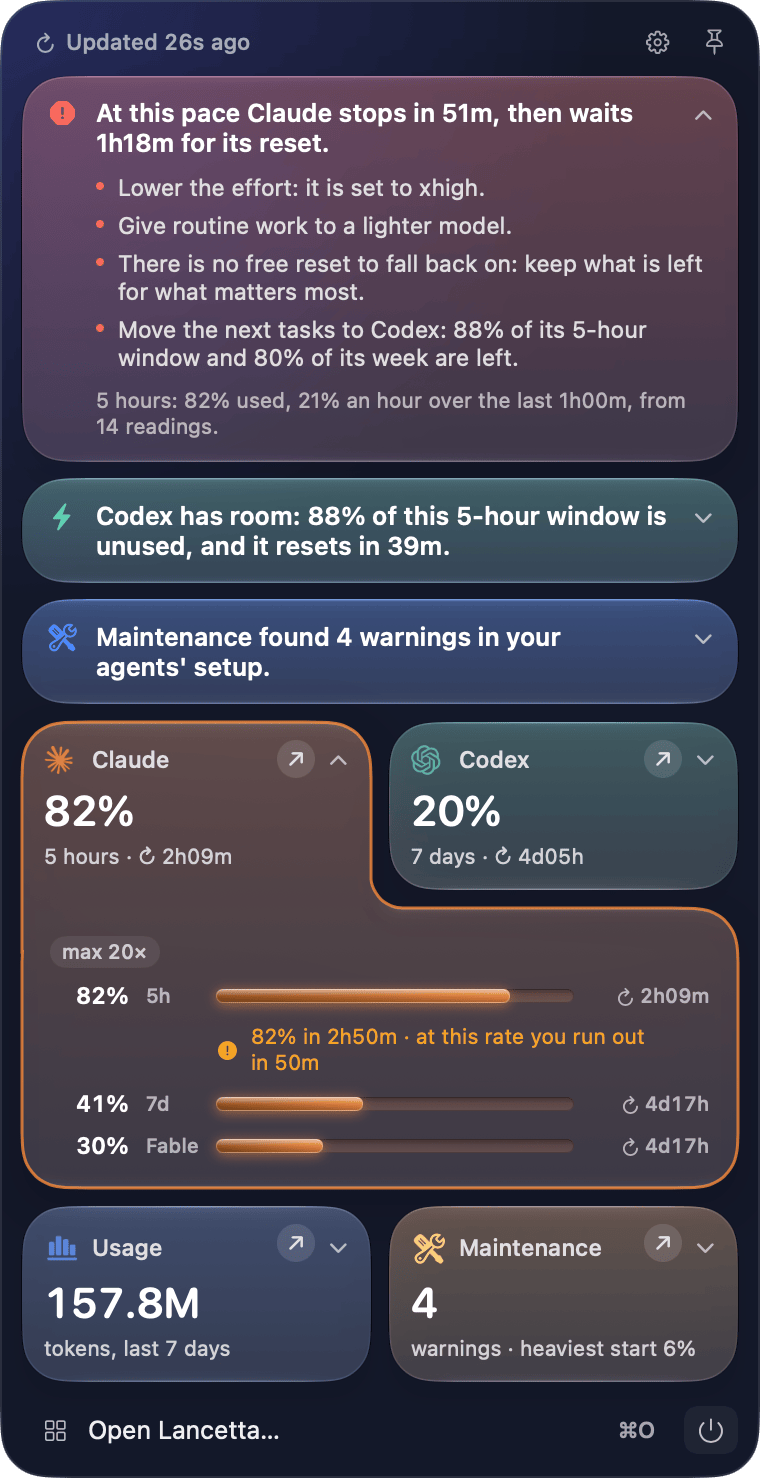
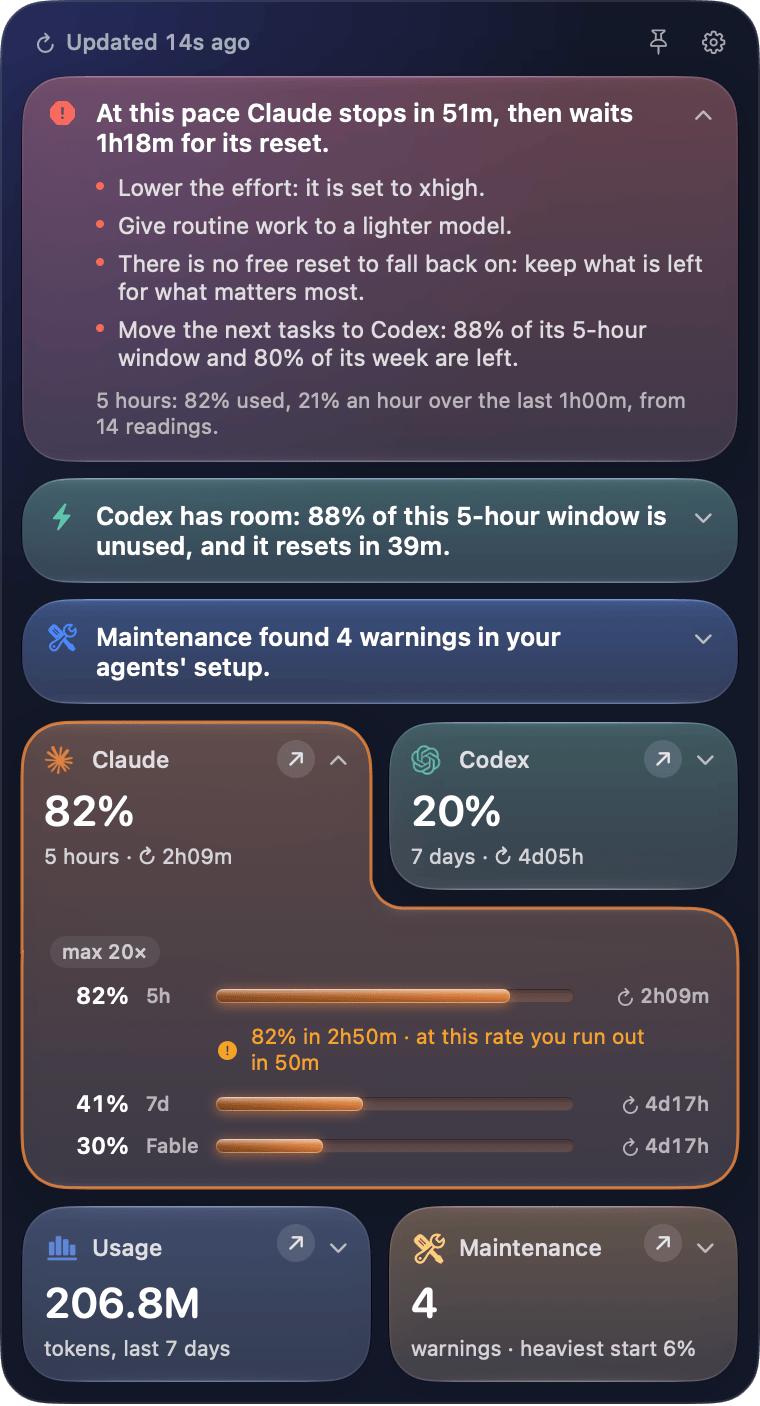
docs: the panel's picture without its old footer
The panel lost its footer in 0.51.0, when the gear in the corner took
the app's commands, but the site's one capture of the panel still showed
Open Lancetta… and the power button along the bottom. It is the hero's
picture, the lead image of the docs home and of The panel, and the
JSON-LD screenshot.

Re-shot from the released 0.53.0 build on the capture cast and the
fixture home, en_GB, by window id: 760x1478 -> 760x1406, and the hero's
HERO_SHOT height follows the file.

diff --git a/components/HeroStage/HeroStage.tsx b/components/HeroStage/HeroStage.tsx
@@ -188,7 +188,7 @@ const frames: Frame[] = [
 const HERO_SHOT = {
   src: '/screenshot-menu-dark.png',
   width: 760,
-  height: 1478,
+  height: 1406,
   alt: 'The Lancetta panel: three suggestions first, the most urgent open: at this pace Claude stops in 51m, then waits 1h18m for its reset, with what helps (lower the effort, a lighter model for routine work, no free reset to fall back on, move the next tasks to Codex) and what it rests on; then Codex has room, and Maintenance found 4 warnings. Under them the window in brief: Claude’s card open on its 5-hour, 7-day and Fable bars, Codex at 20%, Usage and Maintenance',
 };
 
